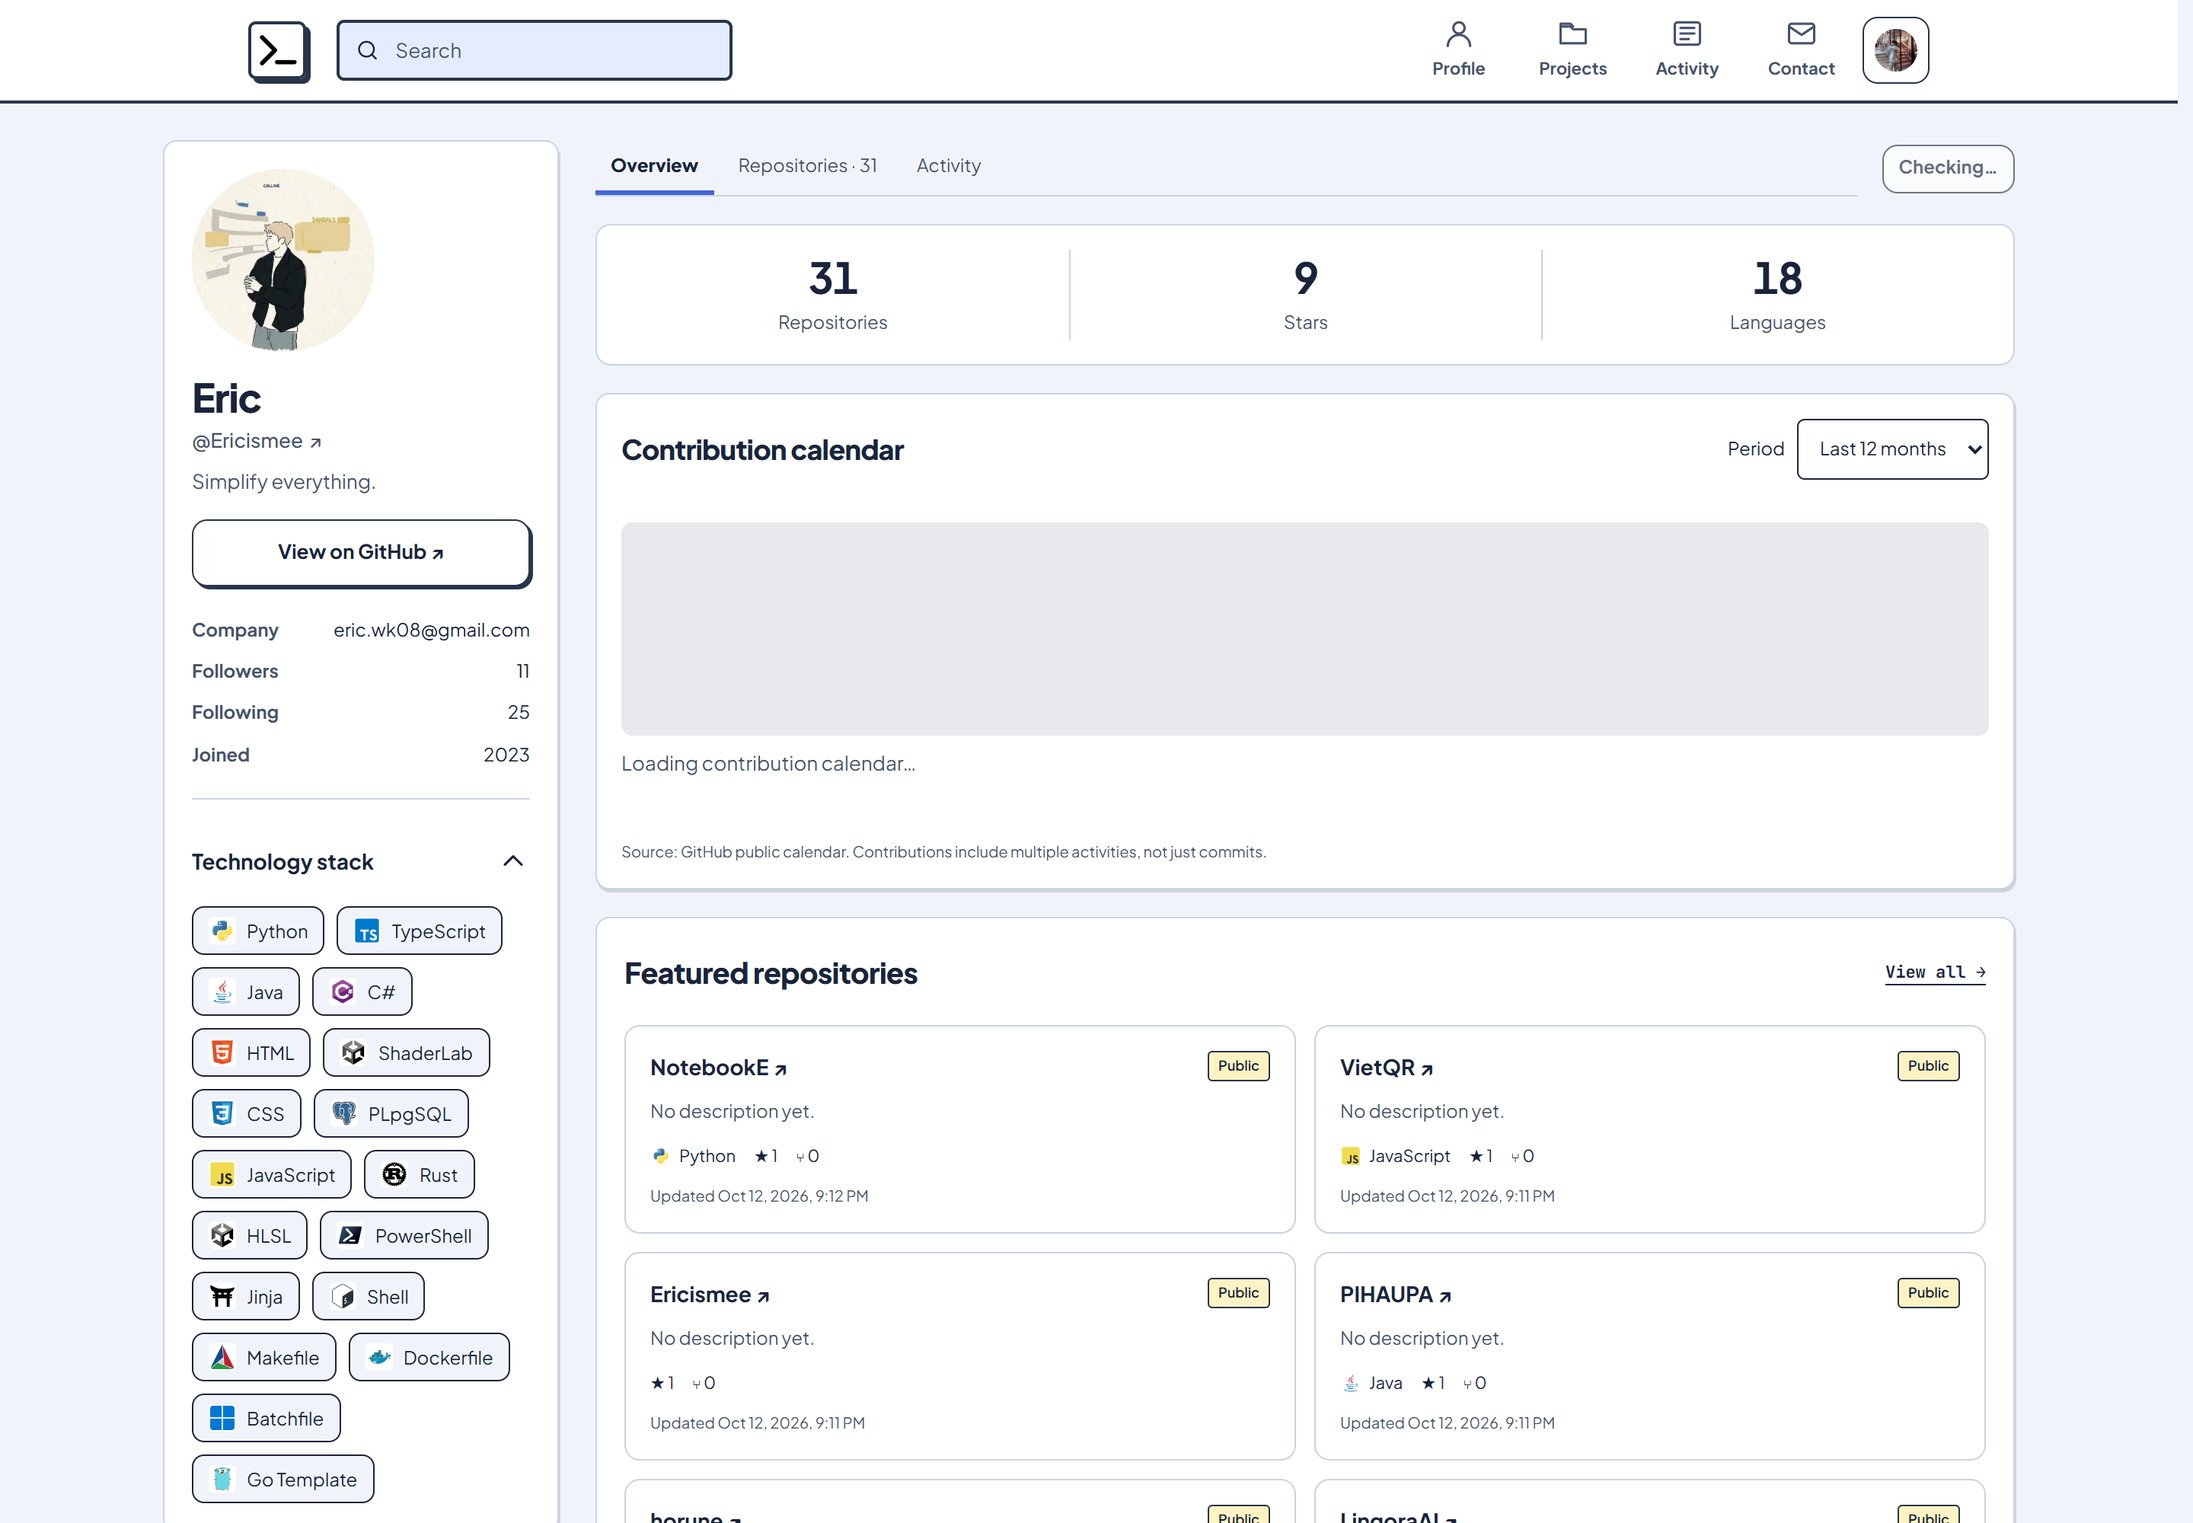
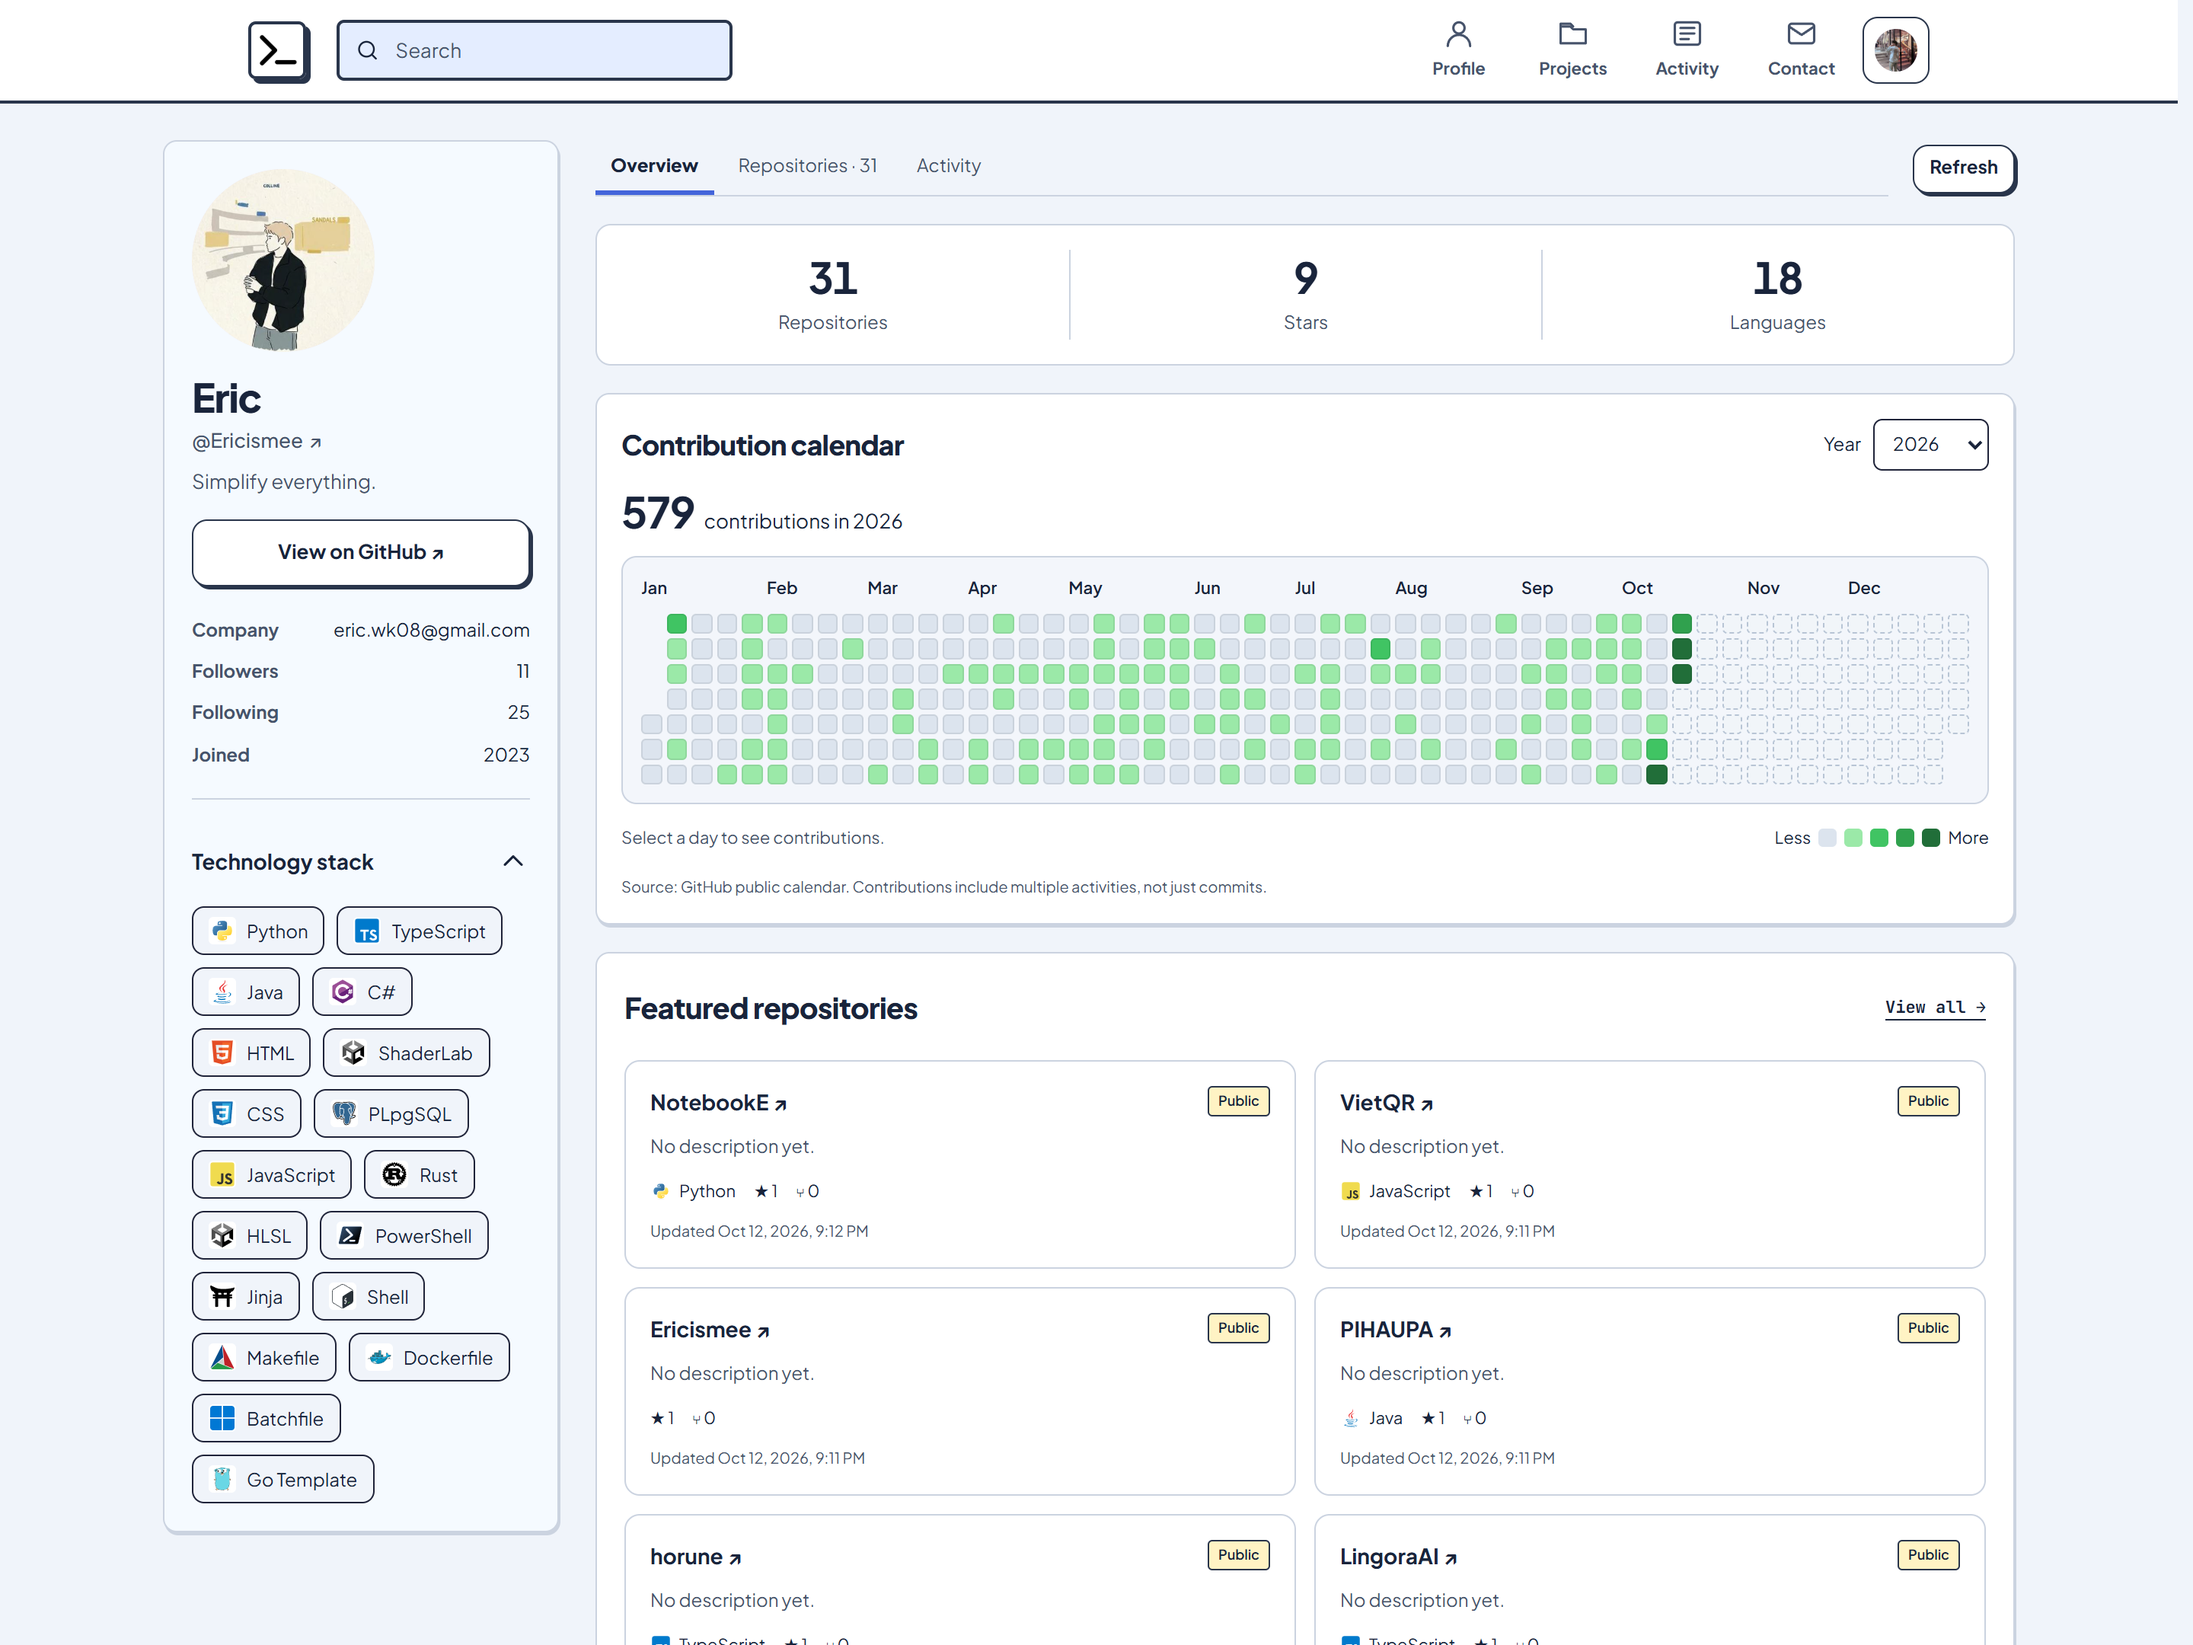
Add interaction mode component to manage touch and keyboard input states

diff --git a/app/globals.css b/app/globals.css
@@ -2868,10 +2868,15 @@ button.gh-day:hover {
   opacity: 0;
 }
 
-.social-link:hover .social-link-detail,
 .social-link:focus-visible .social-link-detail {
   visibility: visible;
   opacity: 1;
+}
+@media (hover: hover) and (pointer: fine) {
+  .social-link:hover .social-link-detail {
+    visibility: visible;
+    opacity: 1;
+  }
 }
 
 .post-body {
@@ -6885,4 +6890,20 @@ body .icon-btn:disabled {
 }
 .site-menu .site-menu-signout {
   margin-top: 4px;
+}
+
+/* Keep native touch scrolling and link activation; only reset tap decoration. */
+:is(a, button, summary, [role='button']) {
+  -webkit-tap-highlight-color: transparent;
+}
+html[data-input-mode='touch'] :is(a, button, summary, [role='button']):focus {
+  outline: none;
+}
+html[data-input-mode='touch'] .social-link .social-link-detail {
+  visibility: hidden;
+  opacity: 0;
+}
+html[data-input-mode='touch'] .social-link:hover {
+  background: var(--card);
+  border-color: var(--border-subtle);
 }

diff --git a/components/interaction-mode.tsx b/components/interaction-mode.tsx
@@ -1,0 +1,25 @@
+'use client';
+
+import { useEffect } from 'react';
+
+// Touch should not inherit hover/focus decoration from a previous tap.
+// A hardware keyboard immediately restores the normal focus indicators.
+export function InteractionMode() {
+  useEffect(() => {
+    const root = document.documentElement;
+    const pointer = (event: PointerEvent) => {
+      root.dataset.inputMode = event.pointerType === 'touch' ? 'touch' : 'pointer';
+    };
+    const keyboard = (event: KeyboardEvent) => {
+      if (!event.metaKey && !event.ctrlKey && !event.altKey) root.dataset.inputMode = 'keyboard';
+    };
+    document.addEventListener('pointerdown', pointer, true);
+    document.addEventListener('keydown', keyboard, true);
+    return () => {
+      document.removeEventListener('pointerdown', pointer, true);
+      document.removeEventListener('keydown', keyboard, true);
+      delete root.dataset.inputMode;
+    };
+  }, []);
+  return null;
+}

diff --git a/app/layout.tsx b/app/layout.tsx
@@ -8,6 +8,7 @@ import { siteOrigin } from '../lib/site-origin';
 import { LanguageProvider } from '../components/language';
 import { MobileNavigation } from '../components/mobile-navigation';
 import { PublicShell } from '../components/public-shell';
+import { InteractionMode } from '../components/interaction-mode';
 import '../src/tokens.css';
 import '../src/app.css';
 import './admin.css';
@@ -63,6 +64,7 @@ export default async function RootLayout({ children }: { children: React.ReactNo
       </head>
       <body className={density === 'compact' ? 'compact' : undefined}>
         <LanguageProvider>
+          <InteractionMode />
           <PublicShell content={content}>{children}</PublicShell>
           <MobileNavigation />
         </LanguageProvider>
